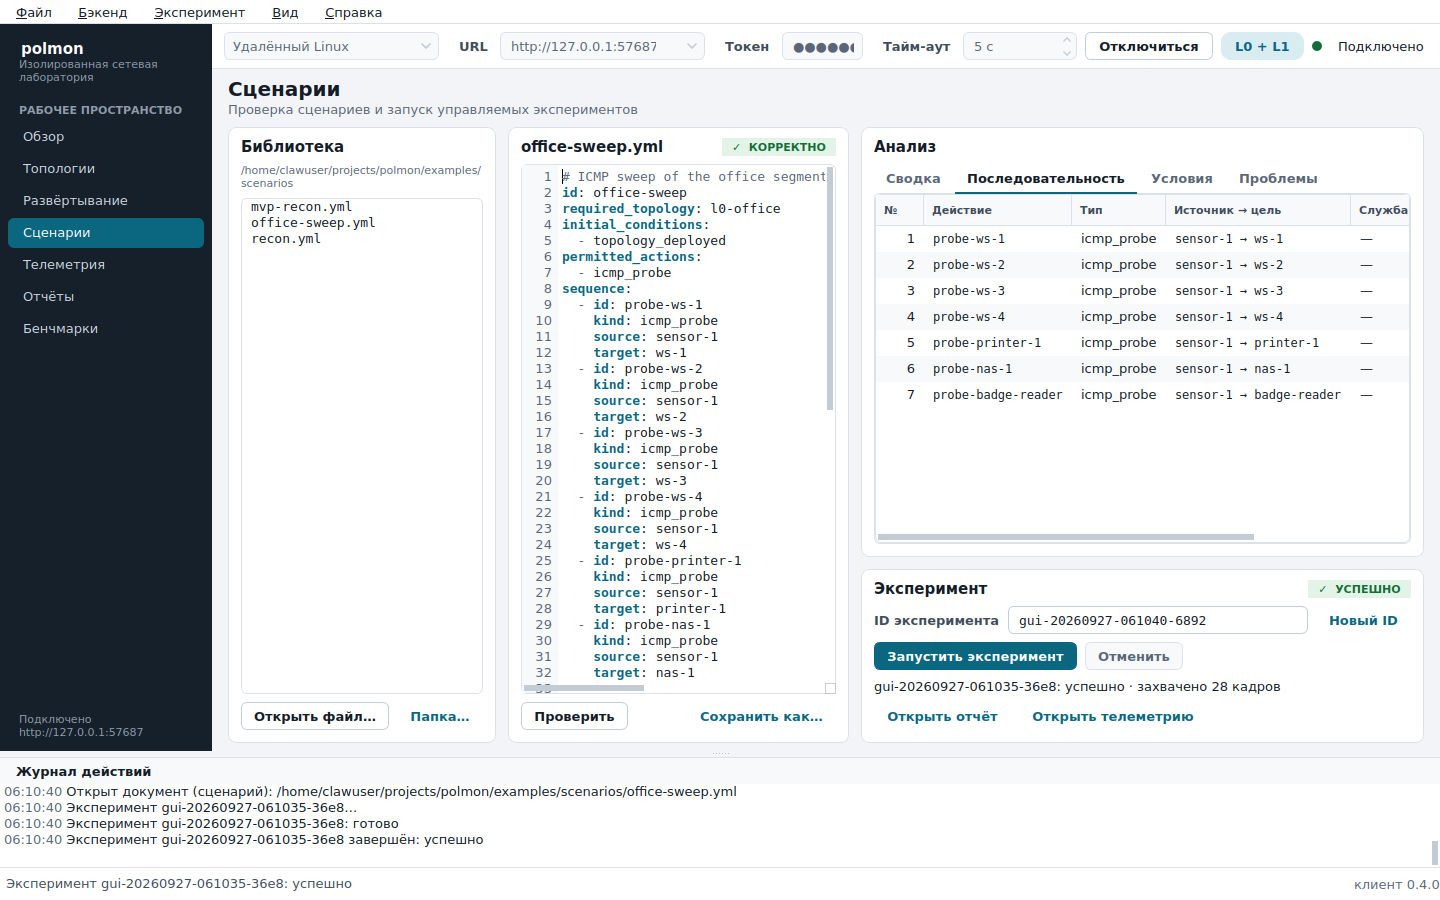
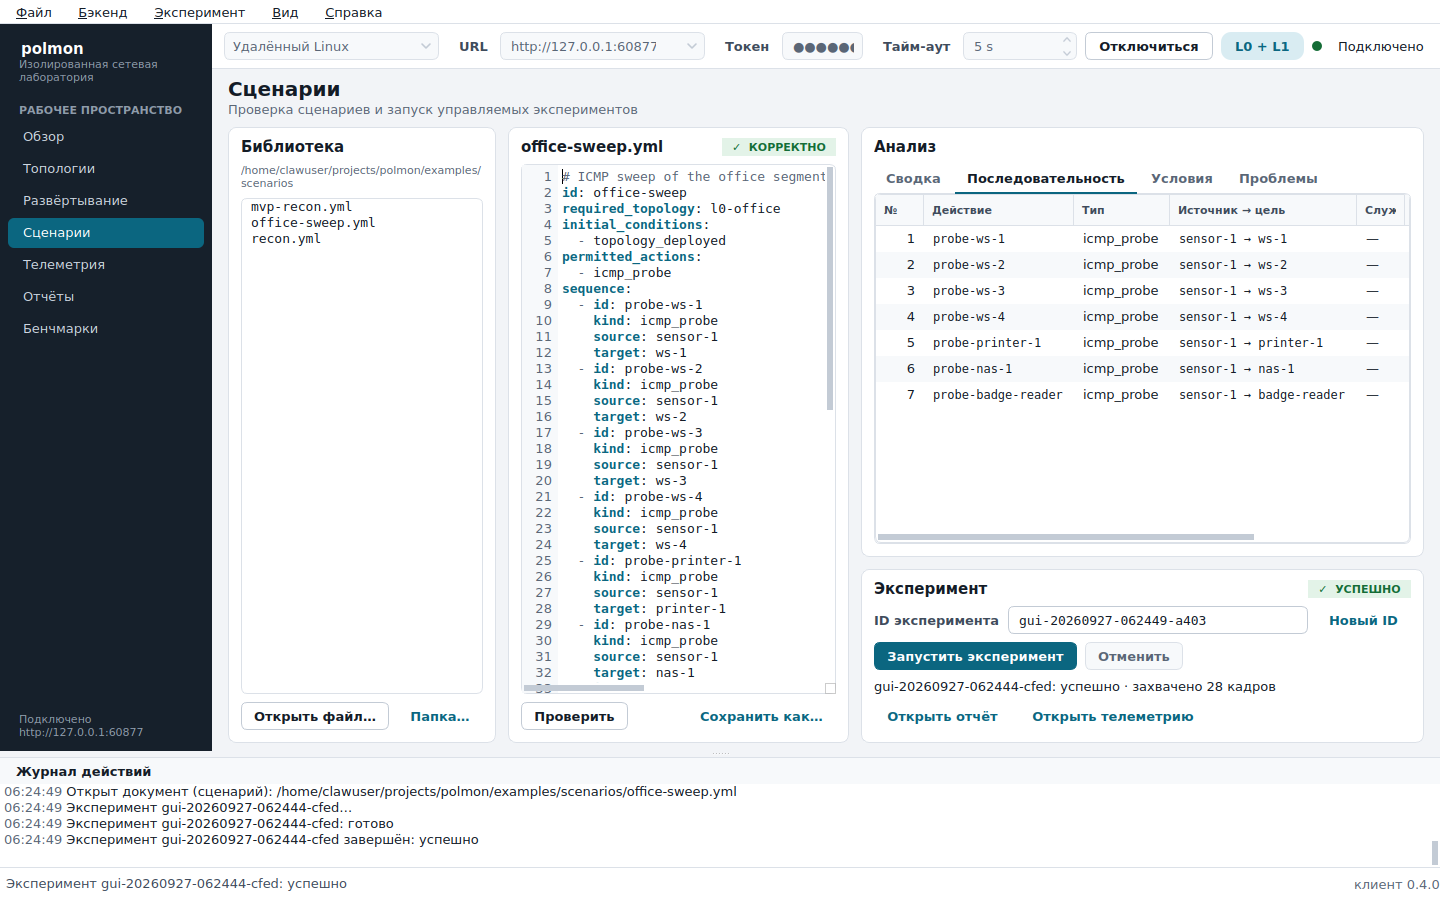
docs(ui): primary actions, table fitting and fresh v0.4.0 renders

diff --git a/docs/UI-GUIDE.md b/docs/UI-GUIDE.md
@@ -40,48 +40,50 @@ CLI output, the self-test and the packaged-client probe stay English (they are p
 
 ### Glossary
 
-One Russian term per concept. The right column lists variants the completeness gate rejects in
+One Russian term per concept. The last column lists variants the completeness gate rejects in
 the Russian catalog.
 
-| English | Russian | Rejected variants |
-|---------|---------|-------------------|
-| backend | бэкенд | `бекенд`, `бэкэнд`, `сервер\s+polmon` |
-| client | клиент | — |
-| deployment / deploy | развёртывание / развернуть | `развертыв`, `деплой` |
-| destroy | разобрать | `уничтож`, `снести` |
-| reset environment | сбросить окружение | — |
-| topology | топология | — |
-| node | узел | `\bнод[аыуе]?\b` |
-| endpoint | конечная точка | `эндпоинт`, `endpoint` |
-| namespace | пространство имён | `неймспейс`, `пространств\w* имен\b` |
-| scenario | сценарий | — |
-| experiment | эксперимент | — |
-| action | действие | — |
-| telemetry | телеметрия | — |
-| report | отчёт | `\bотчет` |
-| benchmark | бенчмарк | `\bтест производительности` |
-| measurement | замер | — |
-| admission control | контроль допуска | — |
-| limit | лимит | `\bквот` |
-| capture | захват | `перехват` |
-| frame | кадр | `фрейм` |
-| validate / validation | проверить / проверка | `валидац` |
-| timeout | тайм-аут | `таймаут` |
-| activity log | журнал действий | `\bлог\b`, `\bлоги\b` |
-| CPU | ЦП | `\bCPU\b` |
-| emulation level (fidelity) | уровень эмуляции | — |
-| token | токен | — |
+| English | Russian | Concept | Rejected variants |
+|---------|---------|---------|-------------------|
+| backend | бэкенд | the polmon-backend service the client controls over HTTP | `бекенд`, `бэкэнд`, `сервер\s+polmon` |
+| client | клиент | this desktop application | — |
+| deployment / deploy | развёртывание / развернуть | a topology instantiated on the backend; the act of creating it | `развертыв`, `деплой` |
+| destroy | разобрать | tear one deployment down and release its resources | `уничтож`, `снести` |
+| reset environment | сбросить окружение | destroy every deployment the backend owns | — |
+| topology | топология | the YAML description of nodes, networks and interfaces | — |
+| node | узел | a host in a topology (L0 synthetic or L1 namespace) | `\bнод[аыуе]?\b` |
+| endpoint | конечная точка | an addressable interface of a node; the unit of admission limits | `эндпоинт`, `endpoint` |
+| namespace | пространство имён | a Linux network namespace backing an L1 node | `неймспейс`, `пространств\w* имен\b` |
+| scenario | сценарий | the YAML description of an experiment: actions and conditions | — |
+| experiment | эксперимент | one run of a scenario against a deployment | — |
+| action | действие | one step of a scenario (probe, request) | — |
+| telemetry | телеметрия | the event stream an experiment produces | — |
+| report | отчёт | the JSON/Markdown result of an experiment | `\bотчет` |
+| benchmark | бенчмарк | a bounded measurement job on the backend | `\bтест производительности` |
+| measurement | замер | one row of a benchmark result | — |
+| admission control | контроль допуска | the backend check that refuses work beyond its limits | — |
+| limit | лимит | a configured ceiling (endpoints, namespaces, memory, duration) | `\bквот` |
+| capture | захват | the packet capture (PCAP) of an experiment | `перехват` |
+| frame | кадр | one captured Ethernet frame | `фрейм` |
+| validate / validation | проверить / проверка | checking a document on the backend without deploying it | `валидац` |
+| timeout | тайм-аут | how long the client waits for one HTTP response | `таймаут` |
+| activity log | журнал действий | the dockable history of what the client did | `\bлог\b`, `\bлоги\b` |
+| CPU | ЦП | processor time and load | `\bCPU\b` |
+| emulation level (fidelity) | уровень эмуляции | what the backend can emulate: L0 only, or L0 + L1 + hybrid | — |
+| token | токен | the API token the backend requires | — |
 
 **Kept as is** in both languages (names, protocols, formats, units): polmon, L0, L1, L2, TAP,
 YAML, JSON, PCAP, CSV, Markdown, HTTP(S), API, URL, IP, IPv4, MAC, ICMP, TCP, ARP, TTL,
 Ethernet, EtherType, RSS, ID, SHA-256, Linux, Windows, systemd, sudo, iproute2, ping, veth,
-Qt, PySide6, and the byte units B, KiB, MiB, GiB (`scripts/i18n_audit.py`, `KEPT_TERMS`).
+Qt, PySide6, and the unit symbols B, KiB, MiB, GiB, ms, s, min, h (`scripts/i18n_audit.py`,
+`KEPT_TERMS`).
 Mixed forms are fine where Russian usage has them: *MAC-адрес*, *IP-адрес*,
 *loopback-интерфейс*.
 
-**Numbers and units.** Decimal point in both languages (values are copied into YAML and
-tickets); byte sizes in IEC units; durations in the language's abbreviations: `мс`, `с`, `мин`,
-`ч` / `ms`, `s`, `min`, `h` (`unit.*` keys). Timestamps are ISO-like `YYYY-MM-DD HH:MM:SS`.
+**Numbers and units.** Unit symbols are machine notation and are not translated: `B`, `KiB`,
+`MiB`, `GiB`, `ms`, `s`, `min`, `h` (`250 ms`, `4.2 s`, `1 min 15 s`, `1 h 05 min`, spin-box
+suffixes ` s` and ` MiB`). Decimal point in both languages (values are copied into YAML and
+tickets). Timestamps are ISO-like `YYYY-MM-DD HH:MM:SS`.
 
 **Style.** Sentence case for titles, buttons and menu items; buttons are verbs in the
 infinitive (*Развернуть*, *Разобрать*, *Сбросить окружение*); Russian quotes «…» around names;
@@ -152,16 +154,24 @@ tiles show a caption (11/600), one metric (22/600) and one muted detail line.
   column pairs, long values in the first column, identifiers monospaced and never broken.
   **ResourceTiles**: live counters with sparklines. **Tables** (`make_table`): sortable,
   resizable, alternating rows, monospaced identifier columns, numbers right-aligned, status
-  cells with glyph + word; columns fit their content and a long cell cannot take the table.
+  cells with glyph + word. Columns fit their content (capped at 360 px); when a table is wider
+  than its view, header slack is given up first, cell content is never cut, and only then does
+  the table scroll.
 - **Buttons by role:** *primary* (filled accent, one per area), *secondary* (outlined),
   *danger* (red outline; always confirmed), *quiet* (text only, for links such as *Все отчёты*).
+  The primary action of each screen: *Подключиться* (header, while disconnected), *Развернуть…*
+  (topologies), *Развернуть* (deployment), *Запустить эксперимент* (scenarios), *Экспорт CSV…*
+  (telemetry), *Сохранить Markdown…* (reports), *Запустить бенчмарк* (benchmarks); the
+  dashboard is read-only. While connected to the Local backend, *Отключиться* is a danger
+  button: it stops the owned backend.
 - **States** (`StateView`): *empty* (○ + what to do next), *loading* (spinner + what is
   loading), *error* (✕ + the problem), always with a sentence, never a blank area.
 - **Feedback:** problem banners (title — detail, bullet items, hint; closable), a status-bar
   busy indicator for any request that takes longer than 400 ms, operation progress with
   percentage, step, elapsed time, ETA and *Отменить* (Esc), and a task-bar alert when a long
   operation ends while the window is in the background.
-- **Destructive actions** (*Разобрать*, *Сбросить окружение*, quitting with an operation
+- **Destructive actions** (*Разобрать*, *Сбросить окружение*, disconnecting from the Local
+  backend — it stops the owned backend —, quitting with an operation
   running) ask for confirmation in a dialog that names the object and the consequence.
 
 ## 4. Usability floor

diff --git a/docs/ui/SCREENSHOTS.md b/docs/ui/SCREENSHOTS.md
@@ -5,10 +5,10 @@ a real `polmon-backend` process with an API token, the unmodified main window, t
 `l0-office` example topology and the `office-sweep` scenario. CI regenerates the same
 set as the `ui-screenshots` artifact.
 
-- Generated: 2026-09-27 04:10 UTC
+- Generated: 2026-09-27 04:25 UTC
 - polmon 0.4.0, Qt 6.11.2, PySide6 6.11.2
 - Platform: `offscreen` on Linux 6.8.0-138-generic, window 1440×900
-- Experiment: `gui-20260927-061035-36e8`
+- Experiment: `gui-20260927-062444-cfed`
 - UI language: `ru`
 
 ## local-backend
